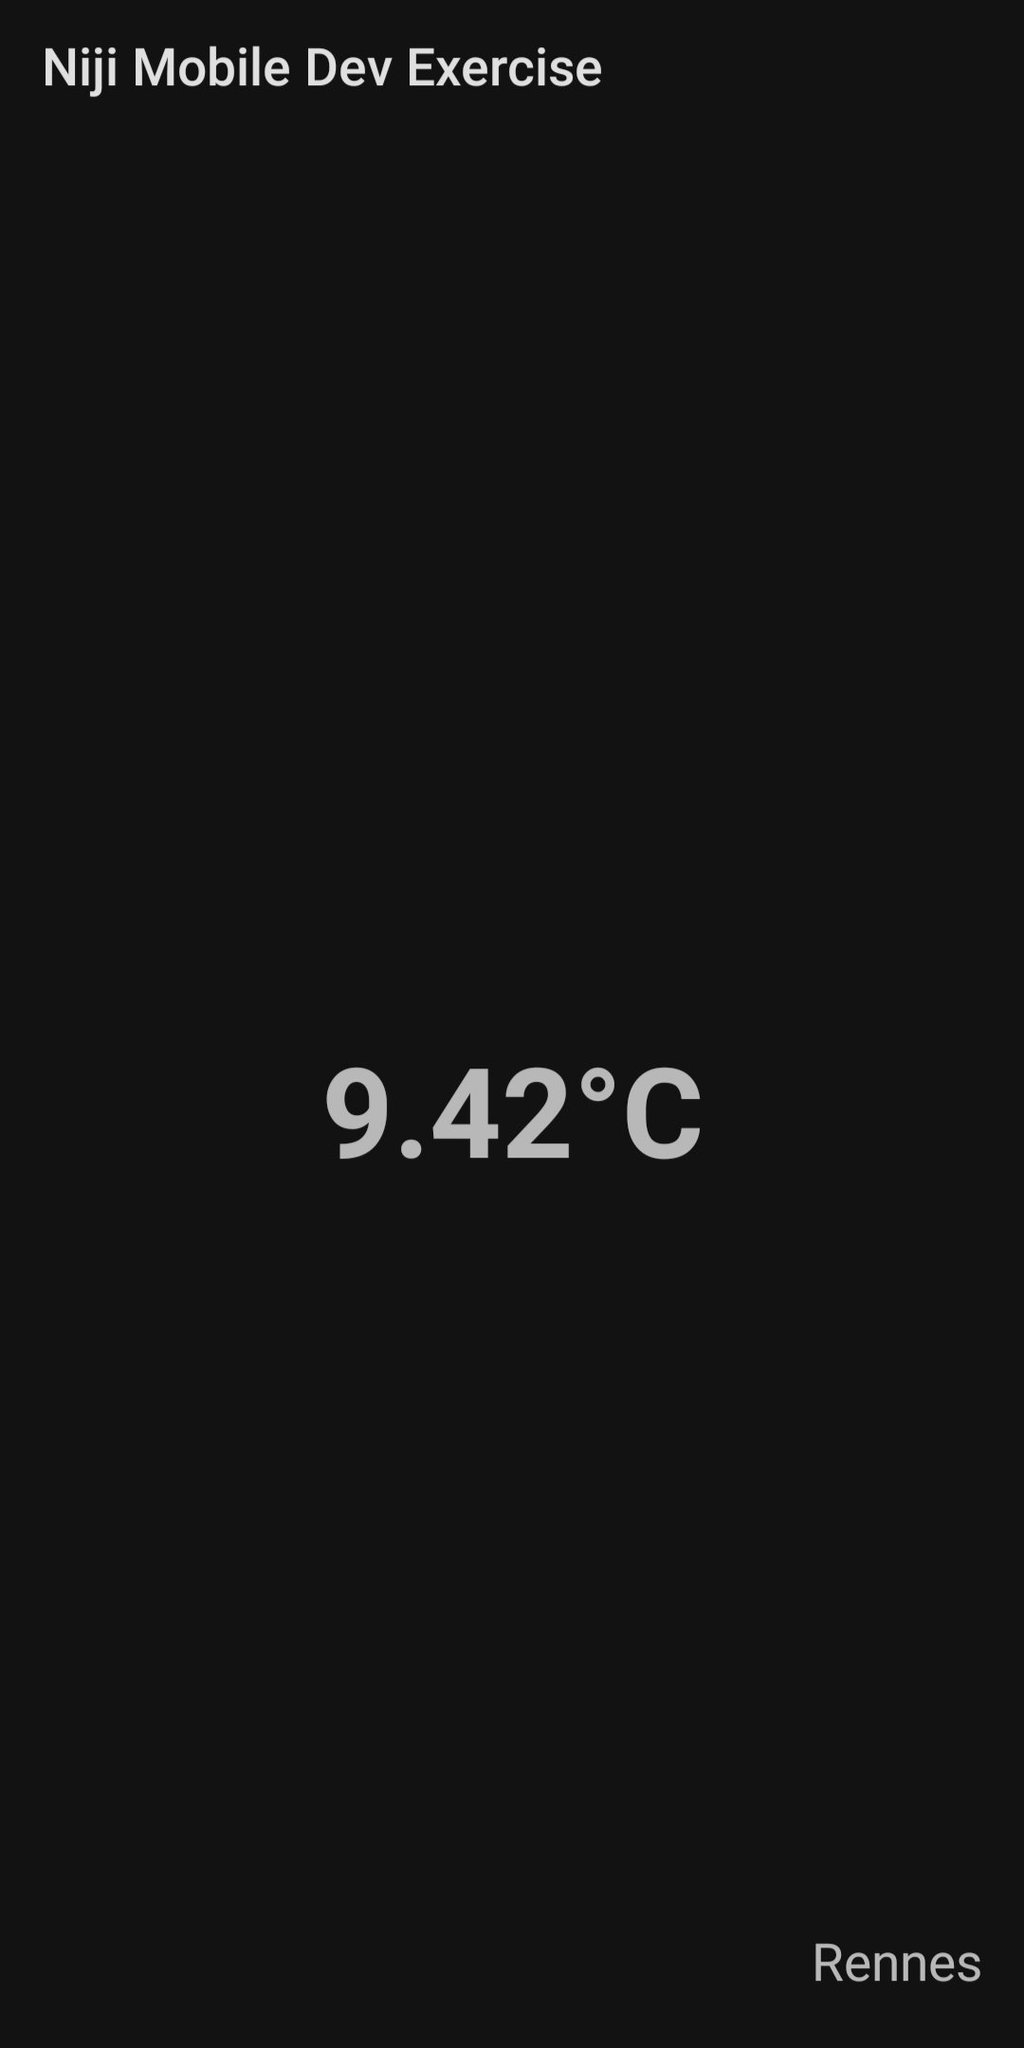
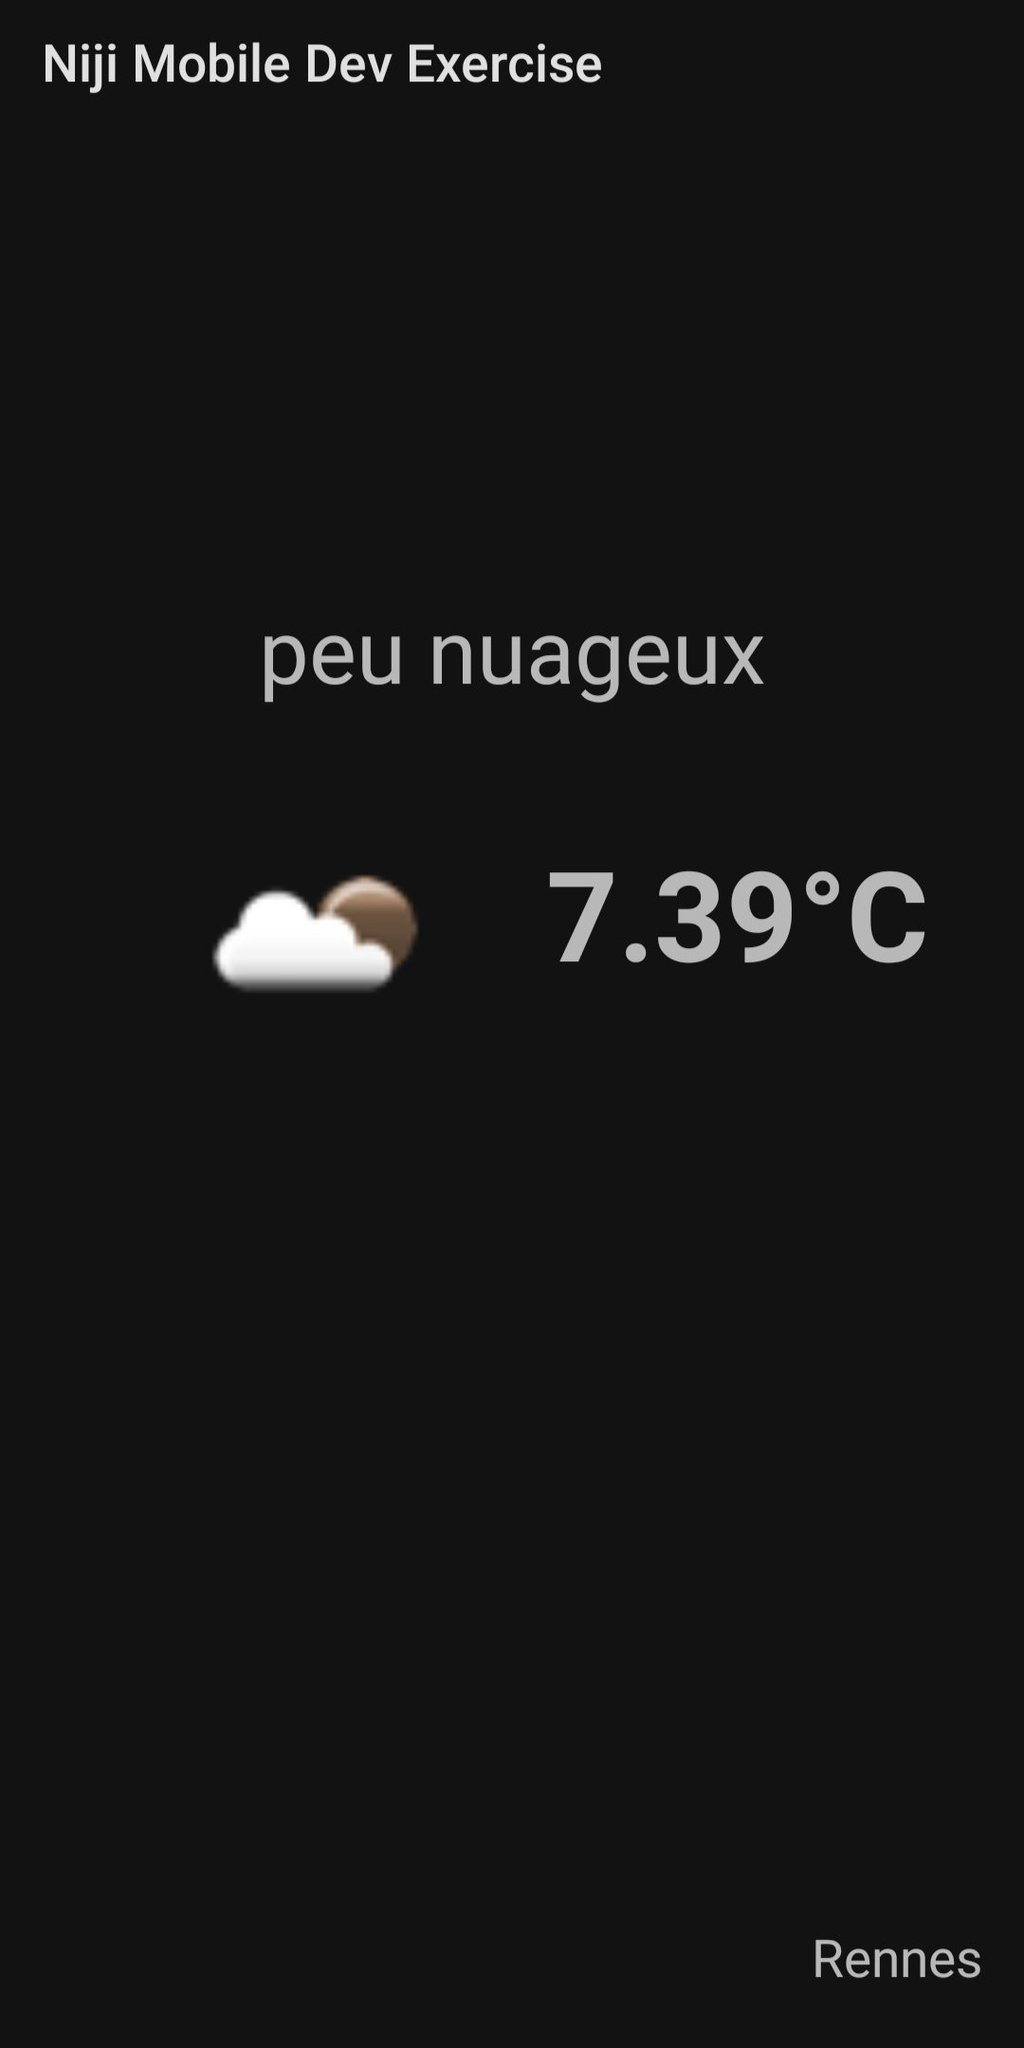
Ajout du temps

diff --git a/niji_mobile_dev_exercise/app/src/main/java/jcochet/niji_mobile_dev_exercise/WeatherActivity.java b/niji_mobile_dev_exercise/app/src/main/java/jcochet/niji_mobile_dev_exercise/WeatherActivity.java
@@ -9,20 +9,27 @@ import retrofit2.Retrofit;
 import retrofit2.converter.gson.GsonConverterFactory;
 
 import android.content.pm.PackageManager;
+import android.net.Uri;
 import android.os.Bundle;
+import android.widget.ImageView;
 import android.widget.TextView;
 
+import com.squareup.picasso.Picasso;
+
+import java.util.ArrayList;
+
 /**
- * Activité affichant la température d'un lieu
+ * Activité affichant le temps et la température de Rennes
  *
  * @author Julien Cochet
  */
-public class TemperatureActivity extends AppCompatActivity {
+public class WeatherActivity extends AppCompatActivity {
 
     private final static String API_URL = "https://api.openweathermap.org/";
     private final static String ZIP = "35700,fr";
     private final static String UNITS = "metric";
     private final static String LANG = "fr";
+    private final static String ICON_PATH = "https://openweathermap.org/img/w/";
 
     private String apiKey;
 
@@ -31,12 +38,14 @@ public class TemperatureActivity extends AppCompatActivity {
         super.onCreate(savedInstanceState);
         setContentView(R.layout.activity_temperature);
 
+        TextView tvWeather = (TextView) findViewById(R.id.weather);
+        ImageView ivWeather = (ImageView) findViewById(R.id.weatherIcon);
         TextView tvTemperature = (TextView) findViewById(R.id.temperature);
         TextView tvLocalisation = (TextView) findViewById(R.id.localisation);
 
         try {
             apiKey = getPackageManager().getApplicationInfo(getPackageName(), PackageManager.GET_META_DATA).metaData.getString("com.google.android.geo.API_KEY");
-            writeCurrentWeatherData(tvTemperature, tvLocalisation);
+            writeCurrentWeatherData(tvWeather, ivWeather, tvTemperature, tvLocalisation);
         } catch (PackageManager.NameNotFoundException e) {
             e.printStackTrace();
         }
@@ -44,12 +53,14 @@ public class TemperatureActivity extends AppCompatActivity {
     }
 
     /**
-     * Affiche la température et la localisation
+     * Affiche les différentes informations à l'écran
      *
+     * @param tvWeather      TextView affichant le temps
+     * @param ivWeather      ImageView affichant l'icône du temps
      * @param tvTemperature  TextView affichant la température
      * @param tvLocalisation TextView affichant la localisation
      */
-    private void writeCurrentWeatherData(TextView tvTemperature, TextView tvLocalisation) {
+    private void writeCurrentWeatherData(TextView tvWeather, ImageView ivWeather, TextView tvTemperature, TextView tvLocalisation) {
         Retrofit retrofit = new Retrofit.Builder()
                 .baseUrl(API_URL)
                 .addConverterFactory(GsonConverterFactory.create())
@@ -63,6 +74,12 @@ public class TemperatureActivity extends AppCompatActivity {
                 if (response.code() == 200) {
                     WeatherResponse weatherResponse = response.body();
                     assert weatherResponse != null;
+                    ArrayList<Weather> weathers = weatherResponse.weather;
+                    if (!weathers.isEmpty()) {
+                        Weather weather = weathers.get(0);
+                        tvWeather.setText(weather.description);
+                        Picasso.get().load(ICON_PATH + weather.icon + ".png").into(ivWeather);
+                    }
                     tvTemperature.setText(weatherResponse.main.temp + "°C");
                     tvLocalisation.setText(weatherResponse.name);
                 }

diff --git a/README.md b/README.md
@@ -5,7 +5,7 @@ Sujet : https://github.com/NijiDigital/Mobile_Dev_Warm_Up
 
 ## Travail réalisé
 <img src="https://github.com/jcochet/niji_mobile_dev_exercise/blob/main/readme/screenshot.jpg?raw=true" width="25%" height="25%"/>
-L'application consiste en une page affichant la température actuelle de Rennes. Les informations météorologiques sont récupérées via l'API Open Weather.
+L'application consiste en une page affichant le temps et la température actuelle de Rennes. Les informations météorologiques sont récupérées via l'API Open Weather.
 
 ## Lancer l'application
 Une release sous forme d'APK est disponible sur cette page GitHub.
